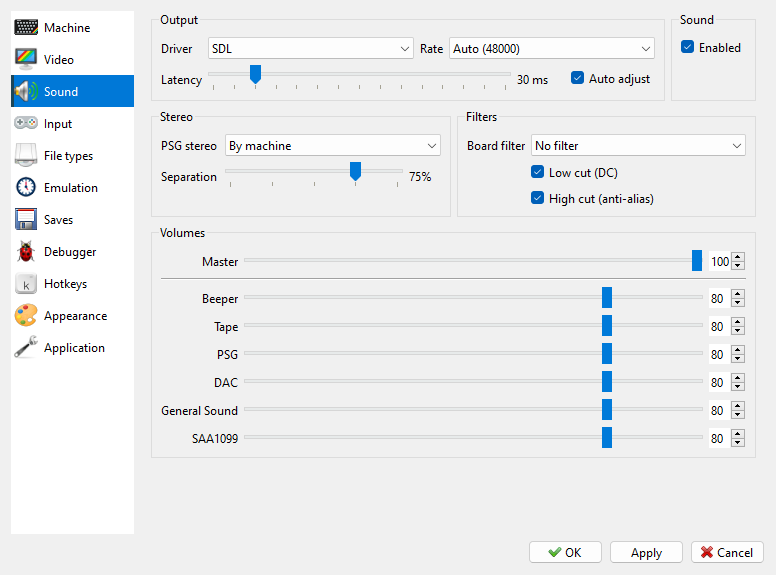
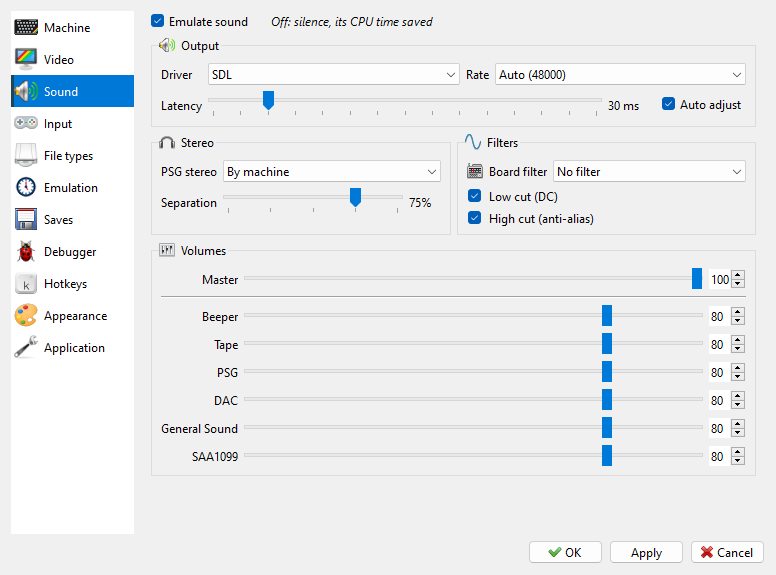
manual: Emulate sound over the Sound page, the Output filters in the menus

diff --git a/docs/manual/options-sound.md b/docs/manual/options-sound.md
@@ -13,10 +13,20 @@ whatever sound chips and cards the machine has. Which devices a machine has is s
 the **Machine** page of **Options** (see [Sound devices](options-machine.md#sound-devices)); how the sound is played and how loud each device is
 are on the **Sound** page.
 
+```{index} Emulate sound, sound; off
+```
+
+**Emulate sound**, over the groups, switches the sound off and on. With it off, the program
+plays silence. The machine still runs at its normal speed, and its sound is not worked out
+at all, which leaves more of the computer to the emulation. The Debugger's scope and the
+sound of a rewind are silent for that time too. The rest of the page is greyed while it is
+off. This is not the same as the **NULL** driver below, which works the sound out and only
+does not play it.
+
 ```{index} Driver, Latency, Auto adjust, sound; latency
 ```
 
-**Options > Sound** has five groups.
+Under it are four groups.
 
 **Output** - how the sound reaches your speakers:
 
@@ -29,11 +39,6 @@ are on the **Sound** page.
   the value by itself: it raises the latency when the sound runs short and lowers it
   again after a long time with no gaps. The slider then shows the value the program has
   settled on.
-
-**Sound** beside **Output** has one switch, **Enabled**. With it off, the program plays
-silence. The machine still runs at its normal speed, and its sound is not worked out at
-all, which leaves more of the computer to the emulation. The Debugger's scope and the
-sound of a rewind are silent for that time too.
 
 ```{index} Stereo, Filters, Board filter, PSG stereo, Separation, PSG; stereo
 ```
@@ -95,7 +100,8 @@ The beeper is a single bit of a port, but what you heard from it depended on the
 48K's own small speaker, a TV, an amplifier behind a coupling capacitor, a piezo sounder.
 On some machines the sound chip went the same way. **Board filter** in **Filters**
 picks what every machine sounds through. Its choices are also under the arrow of the
-toolbar's {icon}`speaker` **Mute** button and in **Sound** of the right-click menu.
+toolbar's {icon}`speaker` **Mute** button and in **Sound** of the right-click menu, and with
+them, under **Output filters**, **Low cut (DC)** and **High cut (anti-alias)**.
 
 The filter runs in the machine's time, so it slows down and speeds up with it: in **Slow
 Motion** a high tone it cuts stays cut as it drops in pitch. **No filter** in the list is

diff --git a/docs/manual/toolbar.md b/docs/manual/toolbar.md
@@ -28,7 +28,7 @@ To move a button, untick **Lock Toolbar** and drag the button.
 ```{index} Mute, volume
 ```
 
-The arrow beside **Mute** opens a volume slider and the **Board filter**'s choices. Alt with the mouse wheel over the picture
+The arrow beside **Mute** opens a volume slider, the **Board filter**'s choices and the **Output filters**, **Low cut** and **High cut**. Alt with the mouse wheel over the picture
 changes the volume too.
 
 ## The buttons
@@ -55,7 +55,7 @@ A button for a menu - **Model**, **Turbo Mode**, **Size** and the like - opens t
 when clicked. A button with an arrow beside it does its command when clicked, and the arrow
 opens its menu: **Reset** lists the ROMs, **Disk Manager** the drives, **divMMC** the cards,
 **Gamepads** the joysticks, **Debugger** its windows, **Mute** the volume slider and the
-Board filter.
+sound's filters.
 
 **Rewind** has no menu item: it works while the button or its key is held down. The time
 buttons work as their keys do; see [How the keys work](time.md#how-the-keys-work).

diff --git a/docs/manual/context-menu.md b/docs/manual/context-menu.md
@@ -20,7 +20,7 @@ Each item is the command of the same name in a menu of the menu bar, described t
 |---|---|
 | {icon}`fileopen` **Open...**, {icon}`star` **Favorites** | [File menu](files.md), [Favorites menu](favorites.md) |
 | {icon}`model-zx48` **Model**, {icon}`clock` **Turbo Mode**, {icon}`shutdown` **Reset** | [Machine menu](machines.md) |
-| {icon}`speaker` **Sound**: **Mute** and the **Board filter**'s choices | [Mute](machines.md#mute), [Board filter](options-sound.md#board-filter) |
+| {icon}`speaker` **Sound**: **Mute**, the **Board filter**'s choices and the **Output filters** | [Mute](machines.md#mute), [Board filter](options-sound.md#board-filter) |
 | {icon}`crt` **Shaders**, {icon}`palette` **ZX Palette** | [View menu](view.md) |
 | {icon}`fdd_disk` **Disk Manager**, {icon}`cartrige` **Cartridge**, {icon}`sdcard` **divMMC**, **SD Card**, {icon}`hdd` **Drives**, {icon}`tape` **Tape Player** | [Media menu](media.md) |
 | {icon}`video` **RZX Player** | [Capture menu](capture.md) |

diff --git a/docs/manual/machines.md b/docs/manual/machines.md
@@ -201,10 +201,10 @@ These change how fast the machine runs, and let it go back in time; see
 ```
 
 {icon}`speaker` **Mute** on the toolbar, or **Machine > Mute**, silences the sound and
-brings it back. The arrow beside the **Mute** button opens a slider for the volume and the
-**Board filter**'s choices (see [Toolbar](toolbar.md) and
-[Board filter](options-sound.md#board-filter)). **Sound** in the right-click menu has
-**Mute** and the same choices.
+brings it back. The arrow beside the **Mute** button opens a slider for the volume, the
+**Board filter**'s choices and the **Output filters**, **Low cut** and **High cut** (see
+[Toolbar](toolbar.md) and [Board filter](options-sound.md#board-filter)). **Sound** in the
+right-click menu has **Mute** and the same filters.
 
 Alt with the mouse wheel over the picture turns the volume up or down by 5%. The slider
 under the **Mute** button shows the new volume for a moment; when the toolbar is hidden,
